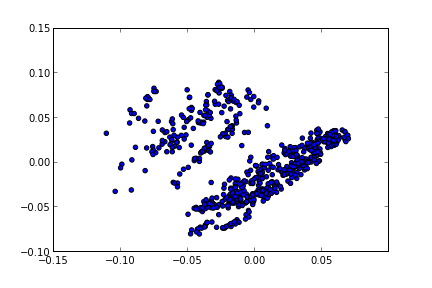
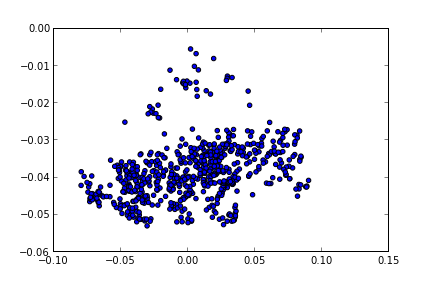
-

diff --git a/app-math-tr/kmeans/test.tex b/app-math-tr/kmeans/test.tex
@@ -55,7 +55,7 @@ df3 = normalize(df3, norm='l2', axis=0)
 df3 = normalize(df3, norm='l2', axis=1)
 
 #u,s,v=lin.svd(df3)
-u,s,v=slin.svds(df3,k=3)
+u,s,v=slin.svds(df3,k=2)
 plt.scatter(u[:,0],u[:,1])
 plt.savefig('test_01.png')
 \end{minted}
@@ -72,7 +72,7 @@ print float(match)/len(df)
 \end{minted}
 
 \begin{verbatim}
-0.580398162328
+0.785604900459
 \end{verbatim}
 
 
